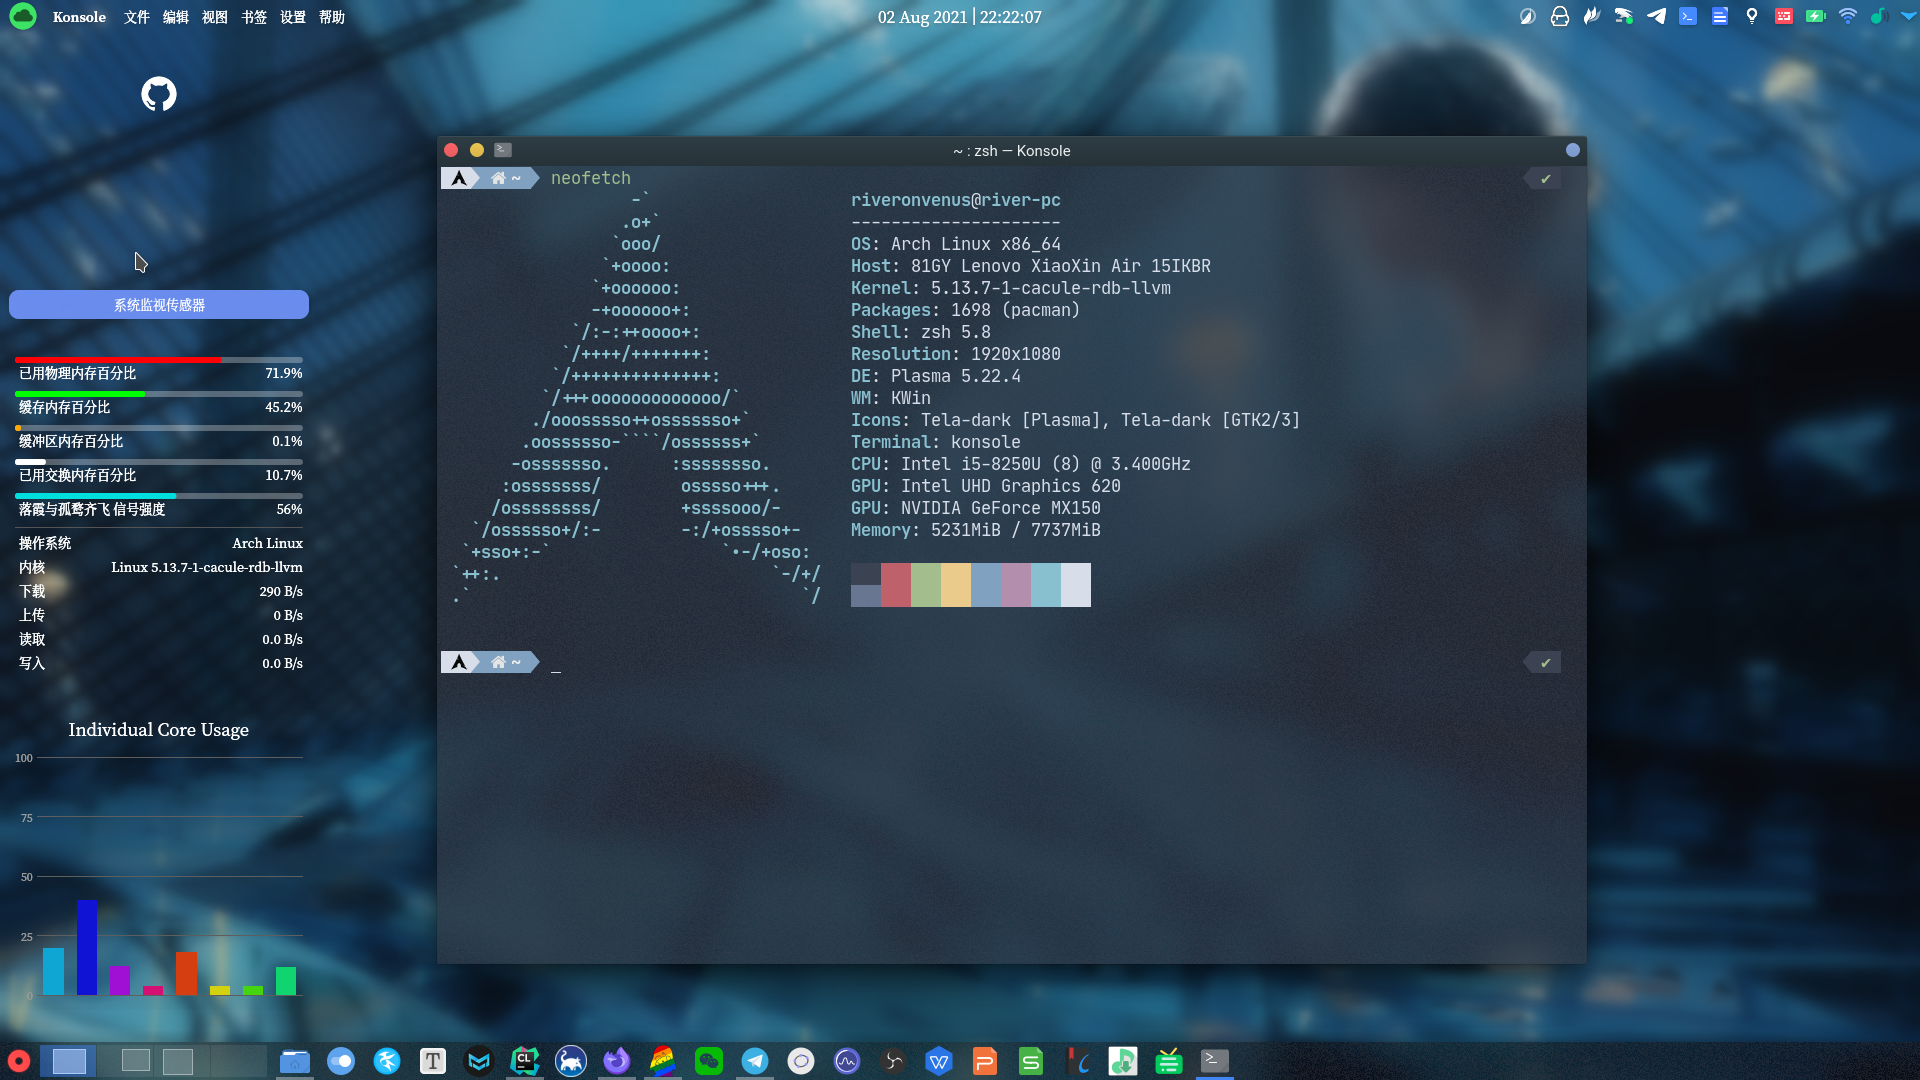
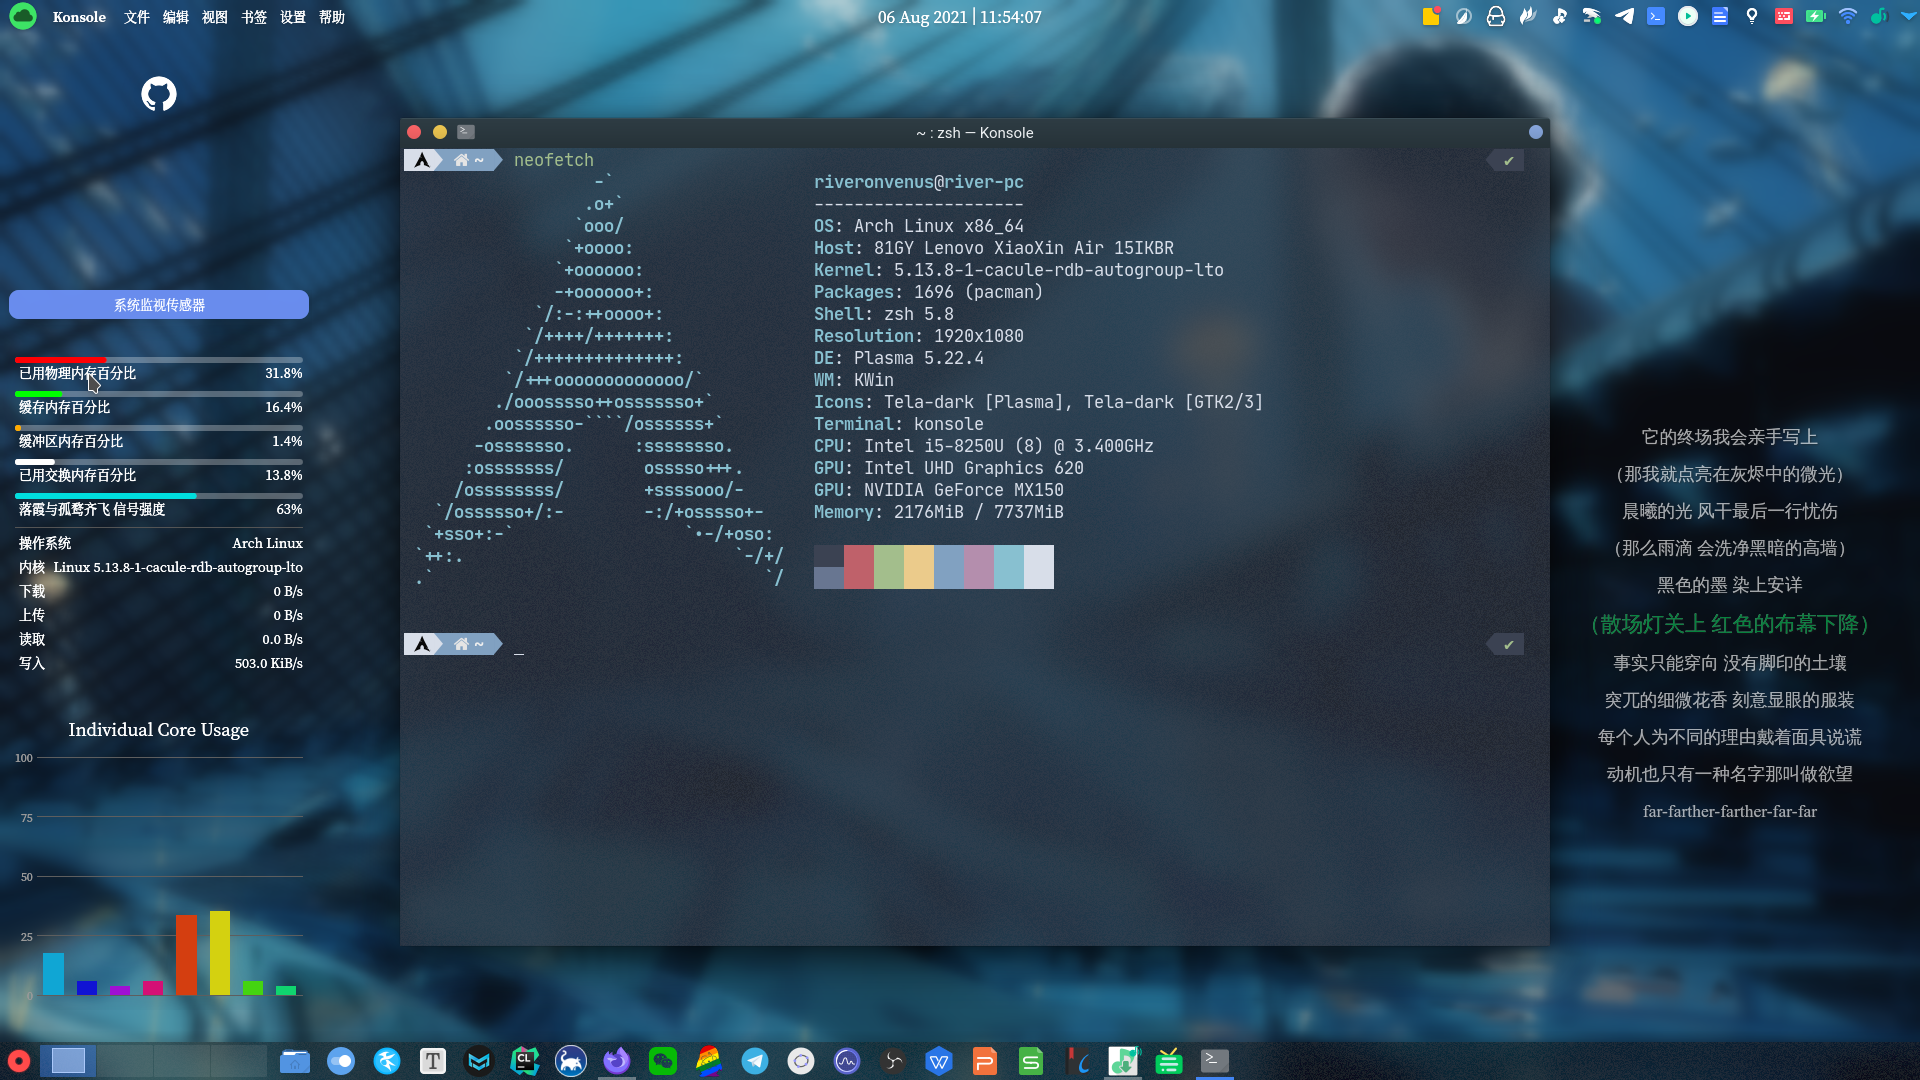
Update

diff --git a/README.md b/README.md
@@ -11,7 +11,9 @@ Arch Linux下的一些配置文件。
 
 数学工具：geogebra
 
-媒体播放器：mpv
+媒体播放器：mpv、vlc
+
+直播播放器：qliveplayer
 
 终端复用器：tmux
 
@@ -29,7 +31,7 @@ Arch Linux下的一些配置文件。
 
 BT客户端：qbittorrent-enhanced
 
-内核：linux-cacule-rdb-llvm
+内核：linux-cacule-rdb-autogroup-lto
 
 # 截图
 
